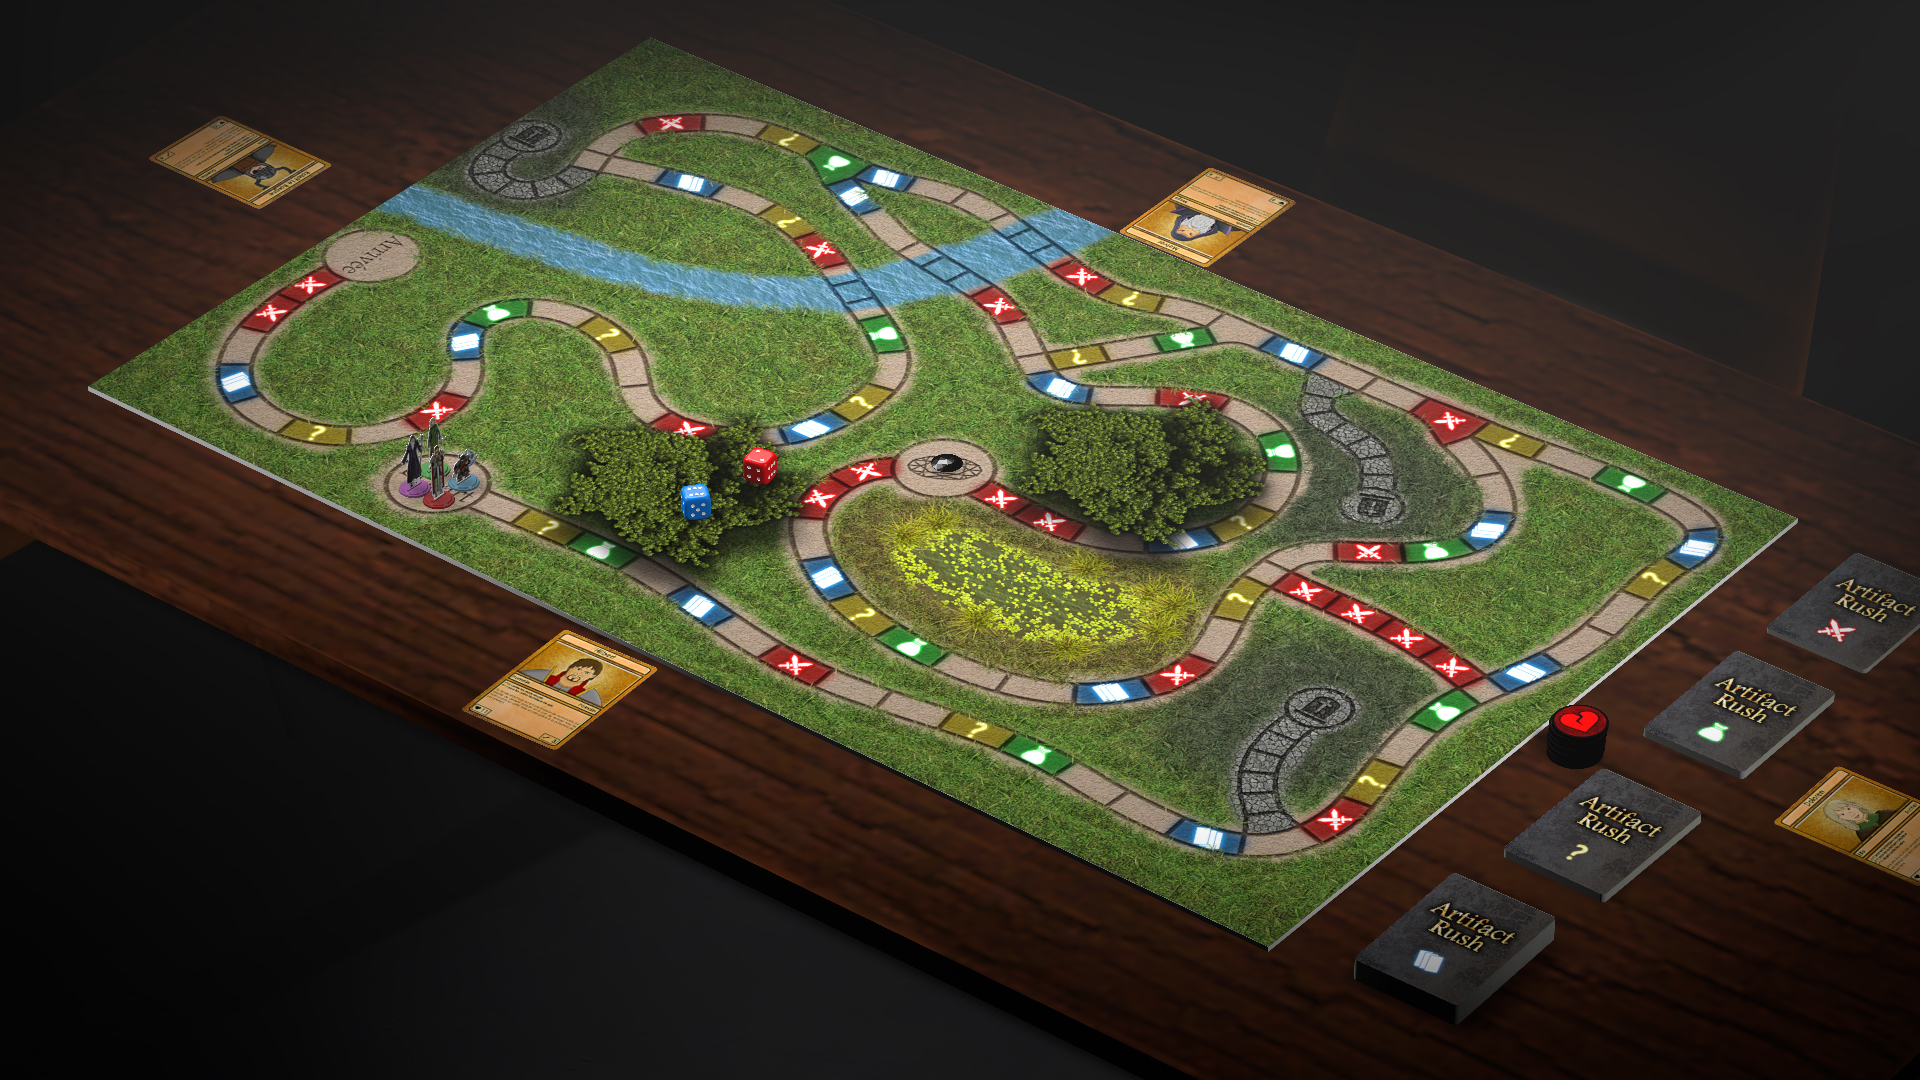
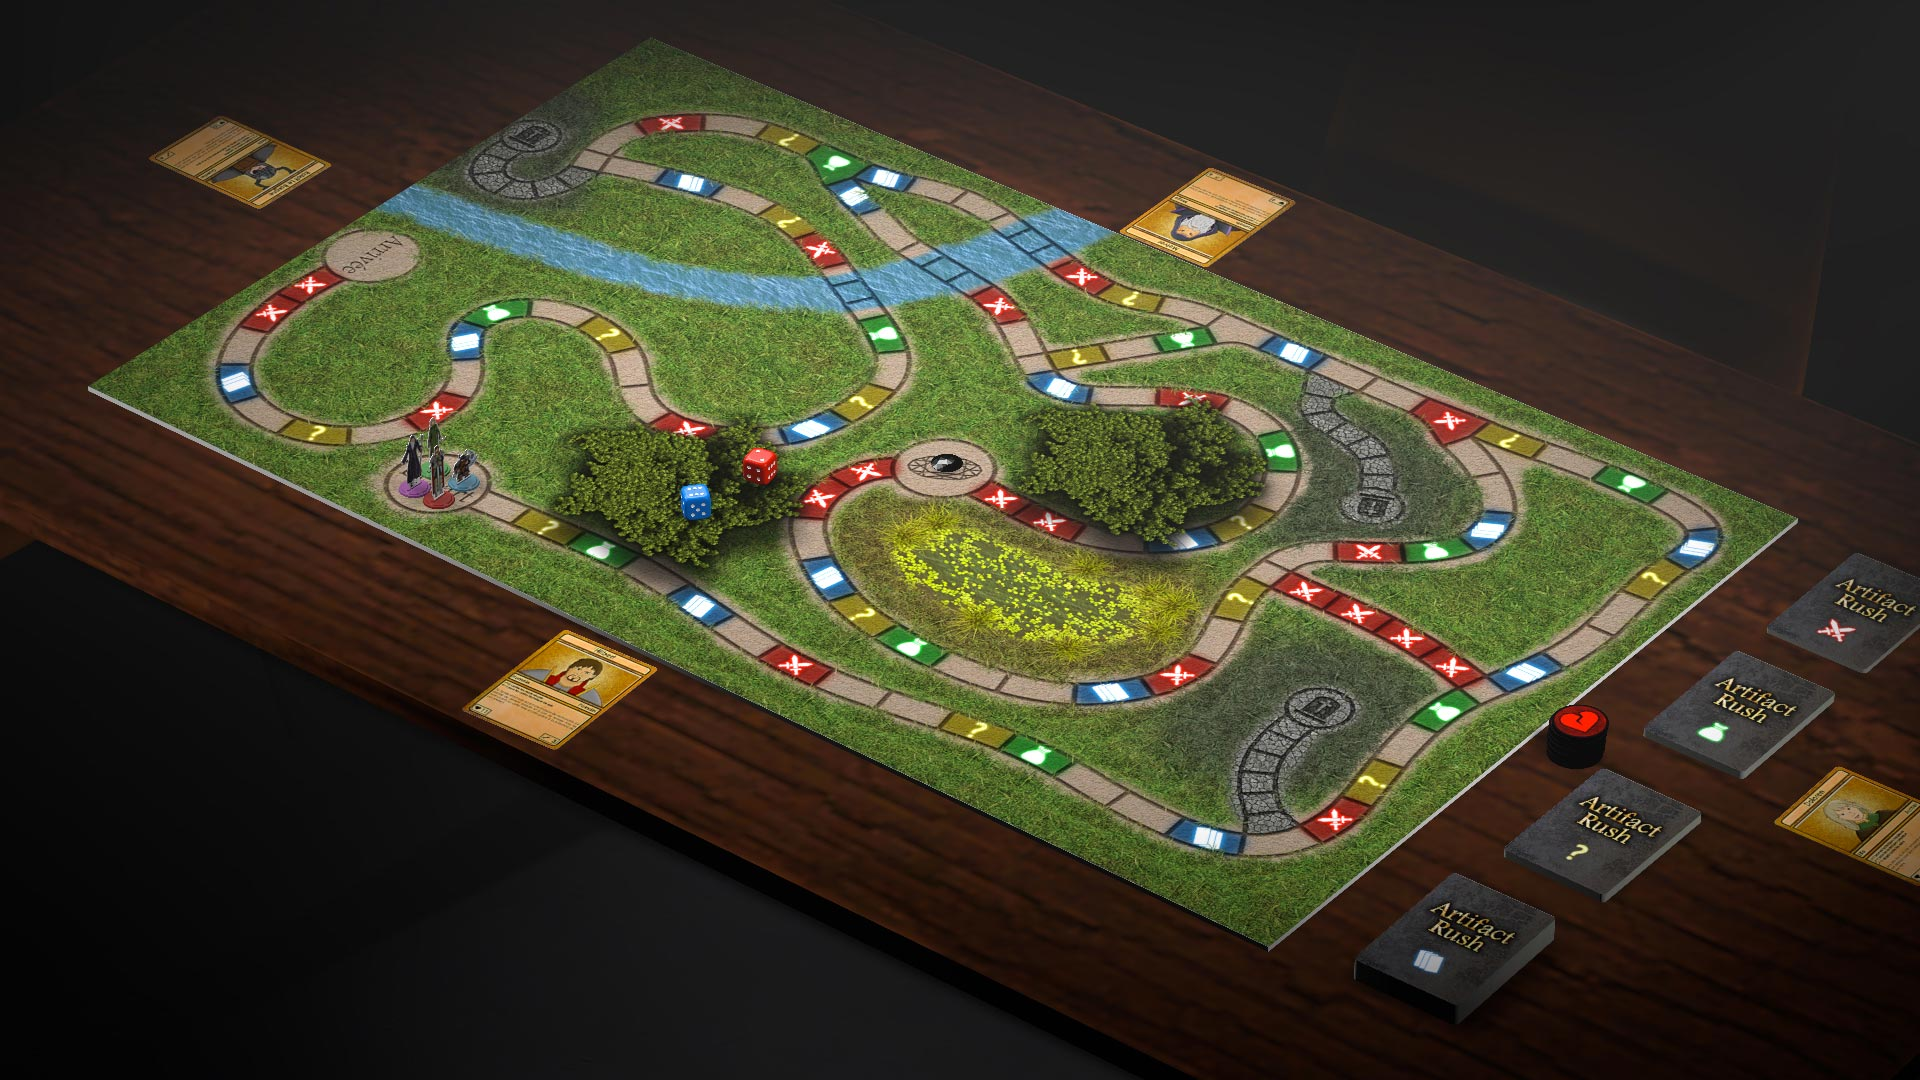
Optimisation des images

diff --git a/index.html b/index.html
@@ -167,7 +167,7 @@
         </div>
         <div class="modal-wrapper">
             <h2>La conception de mon plateau</h2>
-            <a href="img/portfolio/plateau.png" class="img-link" target="_blank"><img src="img/portfolio/plateau.png" alt=""></a>
+            <a href="img/portfolio/plateau.png" class="img-link" target="_blank"><img src="img/portfolio/plateau.jpg" alt=""></a>
             <p>La conception de mon plateau s'est faite en plusieurs étapes, d'abord j'ai créé les cases à l'aide d'Adobe Illustrator pour avoir de belles courbes tout au long des cases. Ensuite à l'aide de Blender, j'ai fait un rendu de l'herbe sur un fond transparent dont j'ai ensuite dupliqué sur tout le chemin pour avoir un résultat homogène et bien intégré au décor.</p>
             <button class="modal-close-bottom" onclick='toggleModal("modBox1")'><i class="fas fa-times"></i> Fermer</button>
         </div>
@@ -181,9 +181,9 @@
         </div>
         <div class="modal-wrapper">
             <h2>Création des cartes</h2>
-            <a href="img/portfolio/dessins.png" class="img-link" target="_blank"><img src="img/portfolio/dessins.png" alt=""></a>
+            <a class="img-link" href="img/portfolio/full-res/dessins.png" class="img-link" target="_blank"><img src="img/portfolio/dessins.jpg" alt=""></a>
             <p>Les illustrations sont dessinées à la main à l'aide d'une tablette graphique Wacom Bamboo. Les coloriages sont faits sur un calque séparé et des ombres et lumières sont appliquées grâce à un calque en lumière tamisée à 75%.</p>
-            <a href="img/portfolio/dessins2.png" class="img-link" target="_blank"><img src="img/portfolio/dessins2.png" alt=""></a>
+            <a class="img-link" href="img/portfolio/full-res/dessins2.png" class="img-link" target="_blank"><img src="img/portfolio/dessins2.jpg" alt=""></a>
             <button class="modal-close-bottom" onclick='toggleModal("modBox2")'><i class="fas fa-times"></i> Fermer</button>
         </div>
     </article>
@@ -196,9 +196,9 @@
         </div>
         <div class="modal-wrapper">
             <h2>Création des pions</h2>
-            <a class="img-link" href="img/portfolio/pion1.png" target="_blank"><img src="img/portfolio/pion1.png" alt=""></a>
+            <a class="img-link" href="img/portfolio/full-res/pion1.png" target="_blank"><img src="img/portfolio/pion1.jpg" alt=""></a>
             <p>Après avoir dessiné le personnage, j'ai créé une extrusion 3D via Photoshop qui me servira de modèle 3D pour Blender.</p>
-            <a class="img-link" href="img/portfolio/pion2.png" target="_blank"><img src="img/portfolio/pion2.png" alt=""></a>
+            <a class="img-link" href="img/portfolio/full-res/pion2.png" target="_blank"><img src="img/portfolio/pion2.jpg" alt=""></a>
             <p>Ensuite, sur Blender, j'ai ajusté l'épaisseur de l'illustration et modélisé le socle où elle sera posée.</p>
             <button class="modal-close-bottom" onclick='toggleModal("modBox3")'><i class="fas fa-times"></i> Fermer</button>
         </div>
@@ -212,9 +212,9 @@
         </div>
         <div class="modal-wrapper">
             <h2>Exportation sur Tabletop Simulator</h2>
-            <a class="img-link" href="https://store.steampowered.com/app/286160/Tabletop_Simulator/" target="_blank"><img src="img/portfolio/tabletop-logo.png" alt=""></a>
+            <a class="img-link" href="https://store.steampowered.com/app/286160/Tabletop_Simulator/" target="_blank"><img src="img/portfolio/tabletop-logo.jpg" alt=""></a>
             <p>Tabletop Simulator est un simulateur de jeu de société qui permet d'importer ses propres créations. Les jeux fonctionnent sans script, tout se joue manuellement comme dans la vraie vie en manipulant chaque objet physique manuellement.</p>
-            <a class="img-link" href="img/portfolio/tabletop1.jpg" target="_blank"><img src="img/portfolio/tabletop1.jpg" alt=""></a>
+            <a class="img-link" href="img/portfolio/full-res/tabletop1.jpg" target="_blank"><img src="img/portfolio/tabletop1.jpg" alt=""></a>
             <p>Ensuite, sur Blender, j'ai ajusté l'épaisseur de l'illustration et modélisé le socle où elle sera posée.</p>
             <button class="modal-close-bottom" onclick='toggleModal("modBox4")'><i class="fas fa-times"></i> Fermer</button>
         </div>
@@ -230,11 +230,11 @@
             <h2>L'animation de présentation</h2>
             <a class="img-link" href="https://store.steampowered.com/app/1840/Source_Filmmaker/" target="_blank"><img src="img/portfolio/sfm_logo_over.png" alt=""></a>
             <p>L'animation est réalisée à l'aide de Source Filmmaker, un programme purement destiné à l'animation 3D qui exploite le Source Engine utilisé dans les jeux vidéo tel que Half-Life 2, Team Fortress 2 et d'autres jeux créés par Valve.</p>
-            <a class="img-link" href="img/portfolio/animation1.png" target="_blank"><img src="img/portfolio/animation1.png" alt=""></a>
+            <a class="img-link" href="img/portfolio/full-res/animation1.png" target="_blank"><img src="img/portfolio/animation1.jpg" alt=""></a>
             <p>Si j'ai choisi Source Filmmaker, c'est parce que c'est le programme d'animation que j'ai le plus utilisé et qu'il à des modèles de personnages 3D libre de droit dont j'ai exploité dans mon animation de présentation sous l'accord de mon professeur.</p>
-            <a class="img-link" href="img/portfolio/animation2.png" target="_blank"><img src="img/portfolio/animation2.png" alt=""></a>
+            <a class="img-link" href="img/portfolio/full-res/animation2.png" target="_blank"><img src="img/portfolio/animation2.jpg" alt=""></a>
             <p>C'était sans doute l'étape la plus laborieuse de mon projet, car il fallait que je convertisse chacun de mes modèles 3D et mes textures dans un format compatible avec le Source Engine.</p>
-            <a class="img-link" href="img/portfolio/animation3.png" target="_blank"><img src="img/portfolio/animation3.png" alt=""></a>
+            <a class="img-link" href="img/portfolio/full-res/animation3.png" target="_blank"><img src="img/portfolio/animation3.jpg" alt=""></a>
             <button class="modal-close-bottom" onclick='toggleModal("modBox5")'><i class="fas fa-times"></i> Fermer</button>
         </div>
     </article>
@@ -247,11 +247,11 @@
         </div>
         <div class="modal-wrapper">
             <h2>Le montage de présentation</h2>
-            <a class="img-link" href="img/portfolio/montage1.png" target="_blank"><img src="img/portfolio/montage1.png" alt=""></a>
+            <a class="img-link" href="img/portfolio/full-res/montage1.png" target="_blank"><img src="img/portfolio/montage1.jpg" alt=""></a>
             <p>L'assemblage et le compositing sont faits à l'aide d'Adobe After Effect. Le montage sonore ainsi que le rendu final sont faits grâce à Adobe Première Pro.</p>
-            <a class="img-link" href="img/portfolio/montage2.png" target="_blank"><img src="img/portfolio/montage2.png" alt=""></a>
+            <a class="img-link" href="img/portfolio/full-res/montage2.png" target="_blank"><img src="img/portfolio/montage2.jpg" alt=""></a>
             <p>Le gros avantage avec ces deux programmes est le fait qu’ils peuvent gérer les fichiers d’un autre, par exemple j’ai pu utiliser mes montages sur After Effect directement dans Première Pro sans devoir faire de rendu ou quoi que ce soit et les modifications effectuées sur After Effect sera automatiquement prise en compte sur Première Pro. Ce qui donne un gain de temps considérable et empêche une perte de qualité due a un double rendu.</p>
-            <a class="img-link" href="img/portfolio/montage3.png" target="_blank"><img src="img/portfolio/montage3.png" alt=""></a>
+            <a class="img-link" href="img/portfolio/full-res/montage3.png" target="_blank"><img src="img/portfolio/montage3.jpg" alt=""></a>
             <button class="modal-close-bottom" onclick='toggleModal("modBox6")'><i class="fas fa-times"></i> Fermer</button>
         </div>
     </article>
